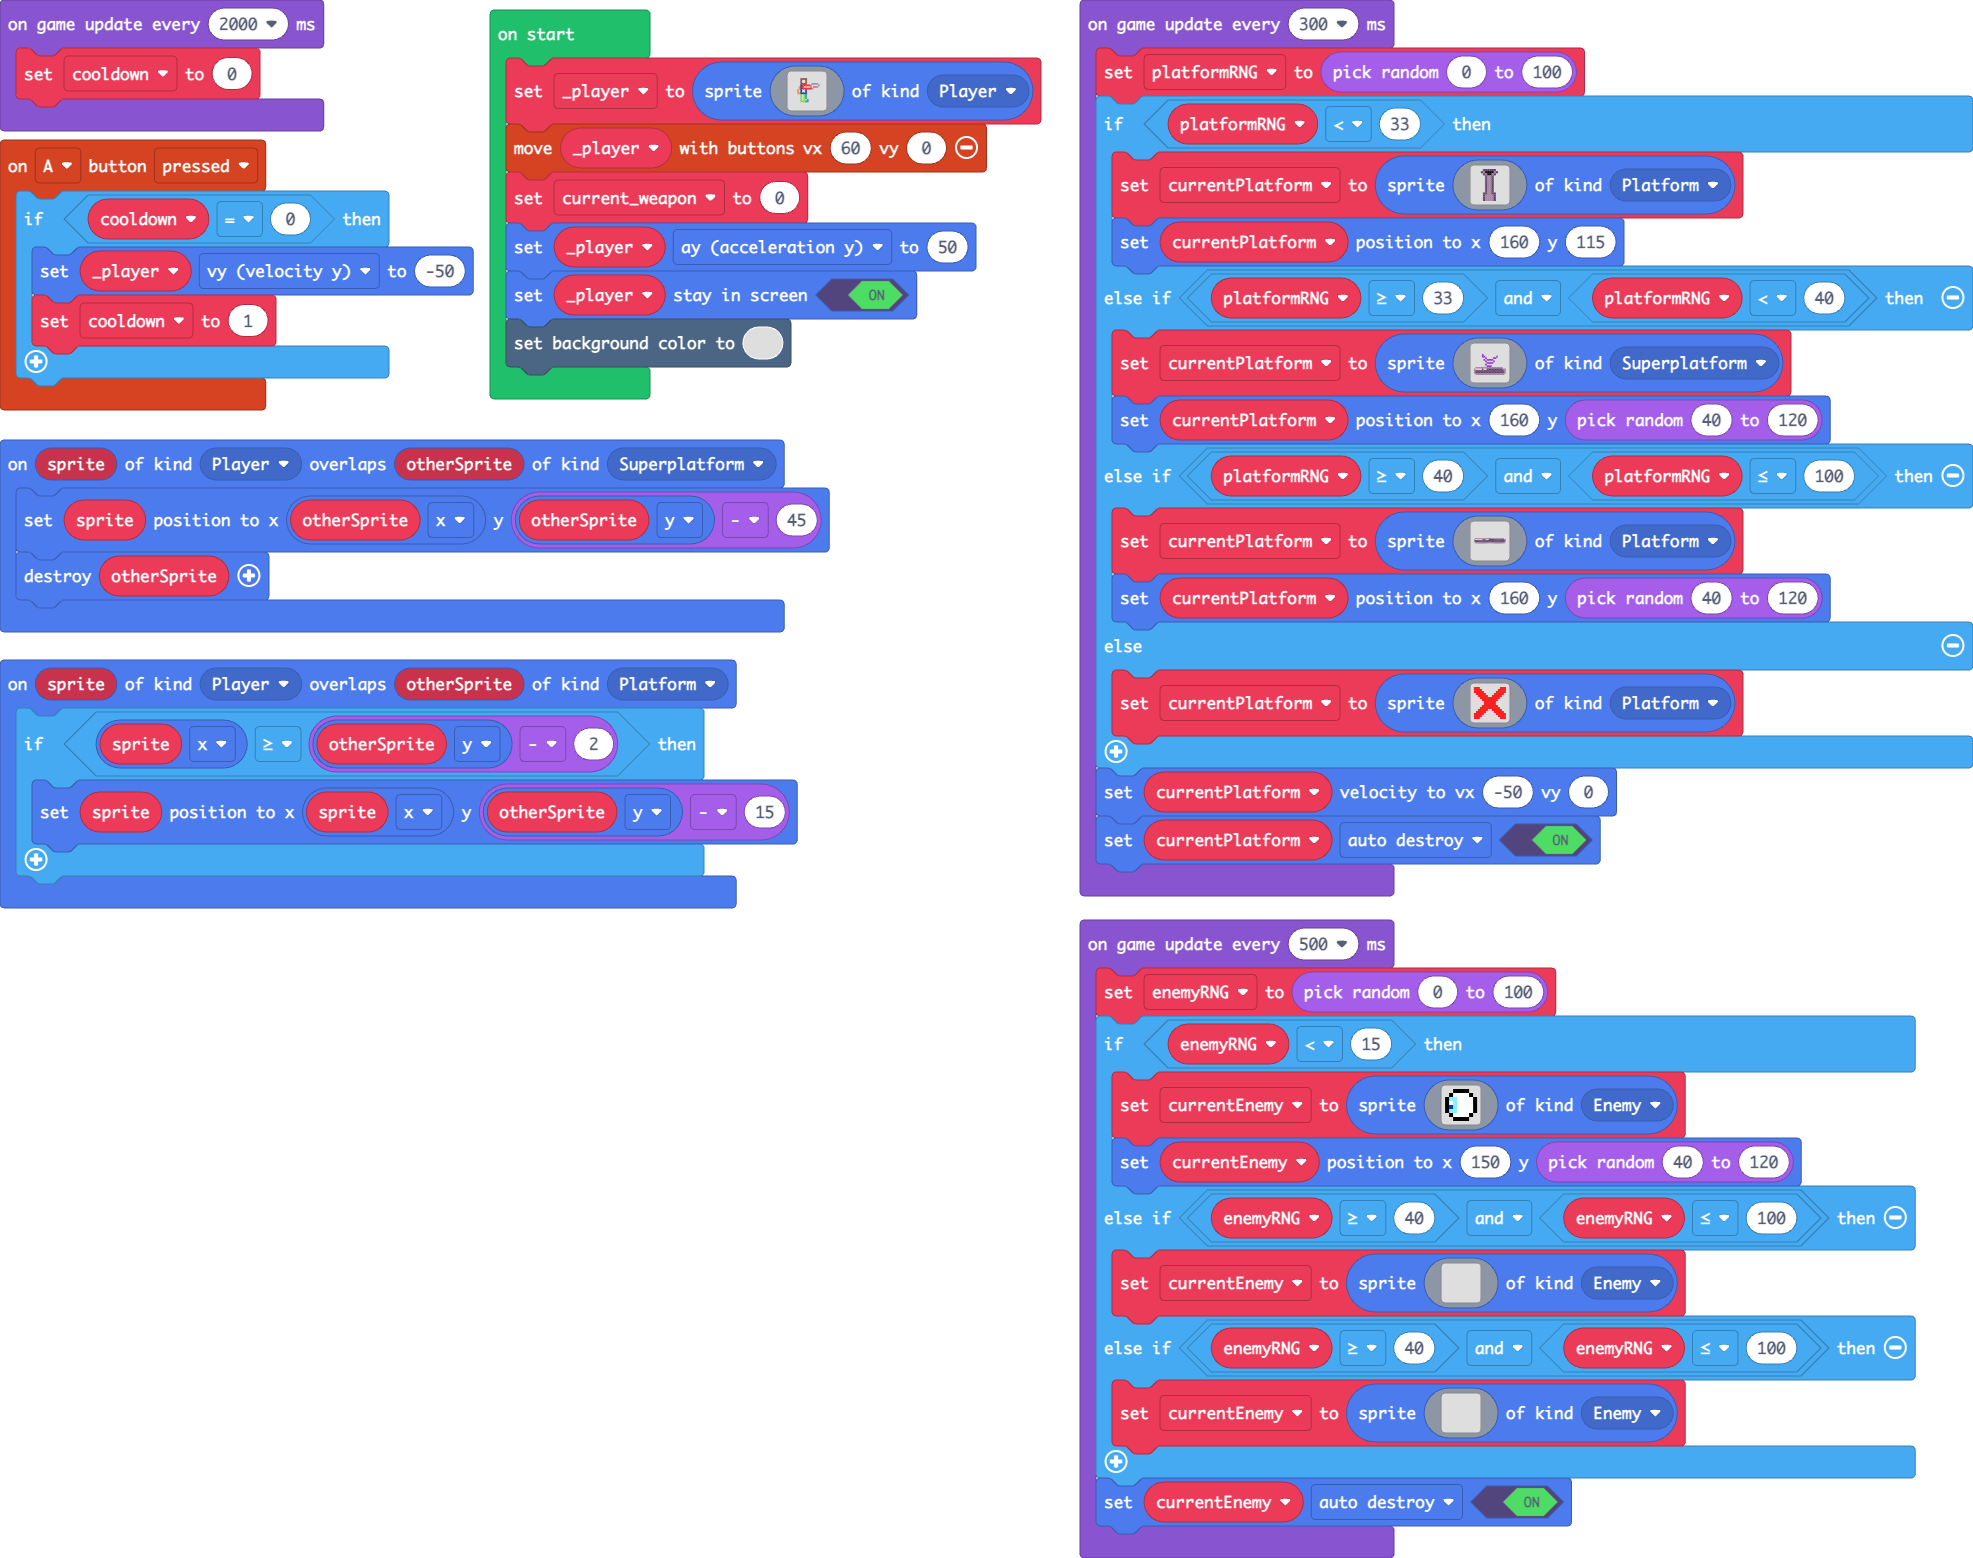
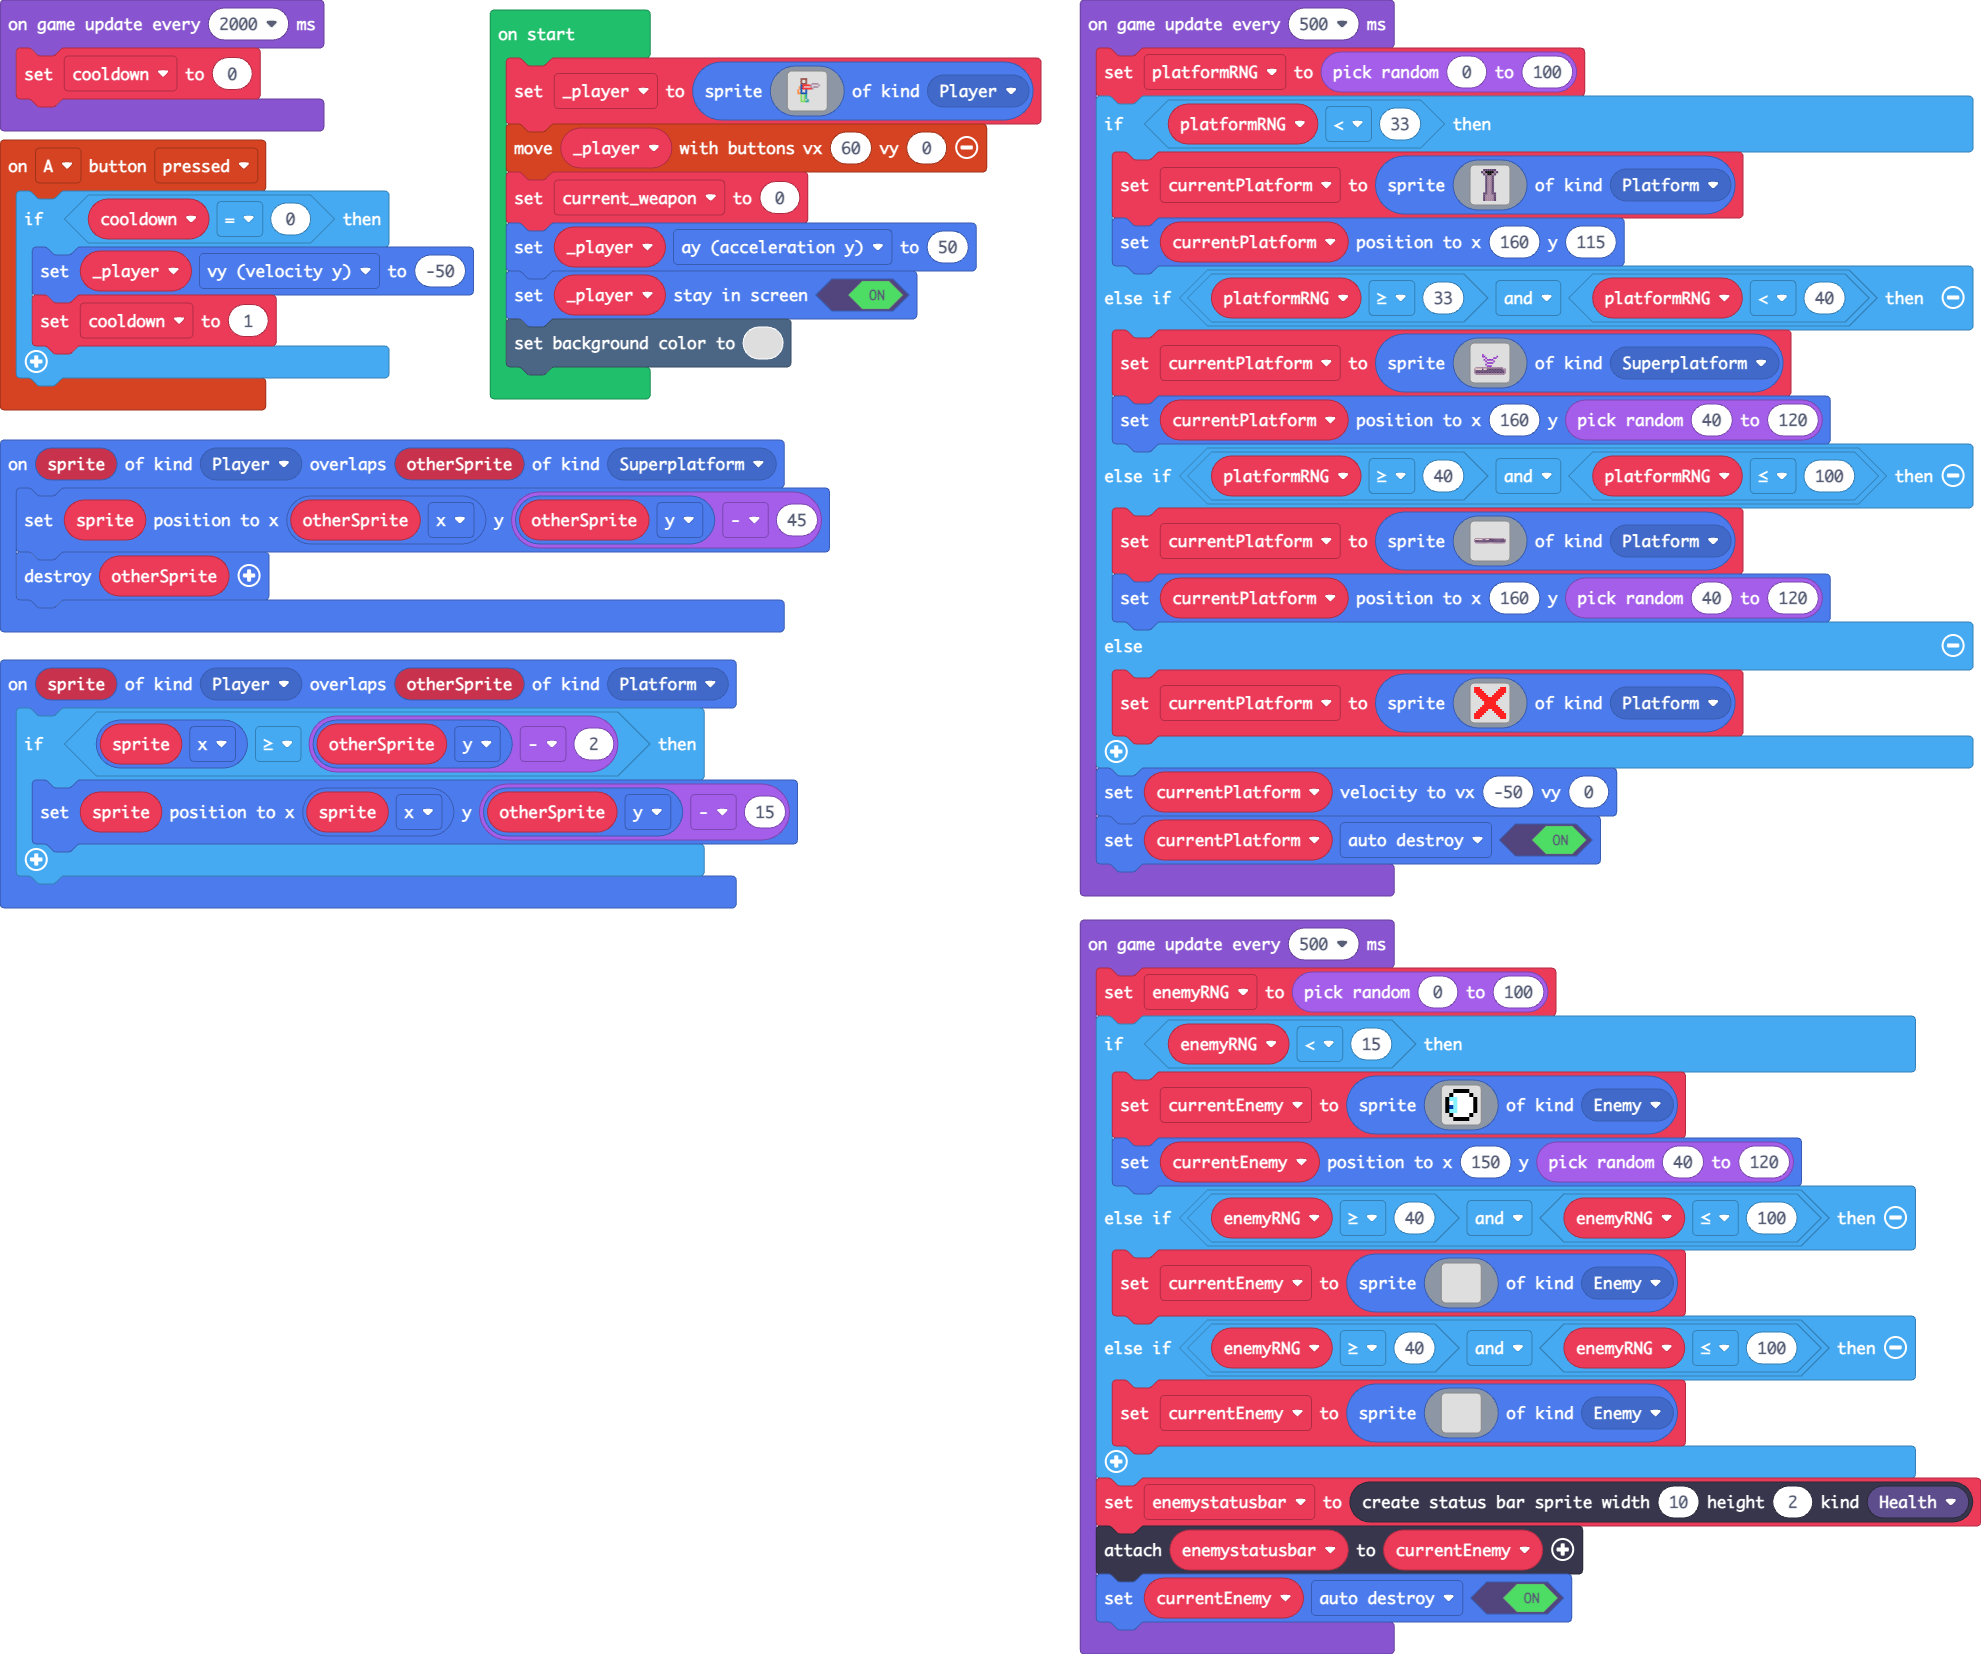
Update main.blocks, main.ts

diff --git a/main.ts b/main.ts
@@ -17,10 +17,11 @@ sprites.onOverlap(SpriteKind.Player, SpriteKind.Superplatform, function (sprite,
     sprite.setPosition(otherSprite.x, otherSprite.y - 45)
     sprites.destroy(otherSprite)
 })
-let currentPlatform: Sprite = null
-let platformRNG = 0
+let enemystatusbar: StatusBarSprite = null
 let currentEnemy: Sprite = null
 let enemyRNG = 0
+let currentPlatform: Sprite = null
+let platformRNG = 0
 let cooldown = 0
 let _player: Sprite = null
 _player = sprites.create(assets.image`player_gun1`, SpriteKind.Player)
@@ -31,6 +32,23 @@ _player.setStayInScreen(true)
 scene.setBackgroundColor(0)
 game.onUpdateInterval(2000, function () {
     cooldown = 0
+})
+game.onUpdateInterval(500, function () {
+    platformRNG = randint(0, 100)
+    if (platformRNG < 33) {
+        currentPlatform = sprites.create(assets.image`Vpipe`, SpriteKind.Platform)
+        currentPlatform.setPosition(160, 115)
+    } else if (platformRNG >= 33 && platformRNG < 40) {
+        currentPlatform = sprites.create(assets.image`Springboard`, SpriteKind.Superplatform)
+        currentPlatform.setPosition(160, randint(40, 120))
+    } else if (platformRNG >= 40 && platformRNG <= 100) {
+        currentPlatform = sprites.create(assets.image`Hpipe`, SpriteKind.Platform)
+        currentPlatform.setPosition(160, randint(40, 120))
+    } else {
+        currentPlatform = sprites.create(assets.image`undefined`, SpriteKind.Platform)
+    }
+    currentPlatform.setVelocity(-50, 0)
+    currentPlatform.setFlag(SpriteFlag.AutoDestroy, true)
 })
 game.onUpdateInterval(500, function () {
     enemyRNG = randint(0, 100)
@@ -85,22 +103,7 @@ game.onUpdateInterval(500, function () {
             . . . . . . . . . . . . . . . . 
             `, SpriteKind.Enemy)
     }
+    enemystatusbar = statusbars.create(10, 2, StatusBarKind.Health)
+    enemystatusbar.attachToSprite(currentEnemy)
     currentEnemy.setFlag(SpriteFlag.AutoDestroy, true)
-})
-game.onUpdateInterval(300, function () {
-    platformRNG = randint(0, 100)
-    if (platformRNG < 33) {
-        currentPlatform = sprites.create(assets.image`Vpipe`, SpriteKind.Platform)
-        currentPlatform.setPosition(160, 115)
-    } else if (platformRNG >= 33 && platformRNG < 40) {
-        currentPlatform = sprites.create(assets.image`Springboard`, SpriteKind.Superplatform)
-        currentPlatform.setPosition(160, randint(40, 120))
-    } else if (platformRNG >= 40 && platformRNG <= 100) {
-        currentPlatform = sprites.create(assets.image`Hpipe`, SpriteKind.Platform)
-        currentPlatform.setPosition(160, randint(40, 120))
-    } else {
-        currentPlatform = sprites.create(assets.image`undefined`, SpriteKind.Platform)
-    }
-    currentPlatform.setVelocity(-50, 0)
-    currentPlatform.setFlag(SpriteFlag.AutoDestroy, true)
 })
